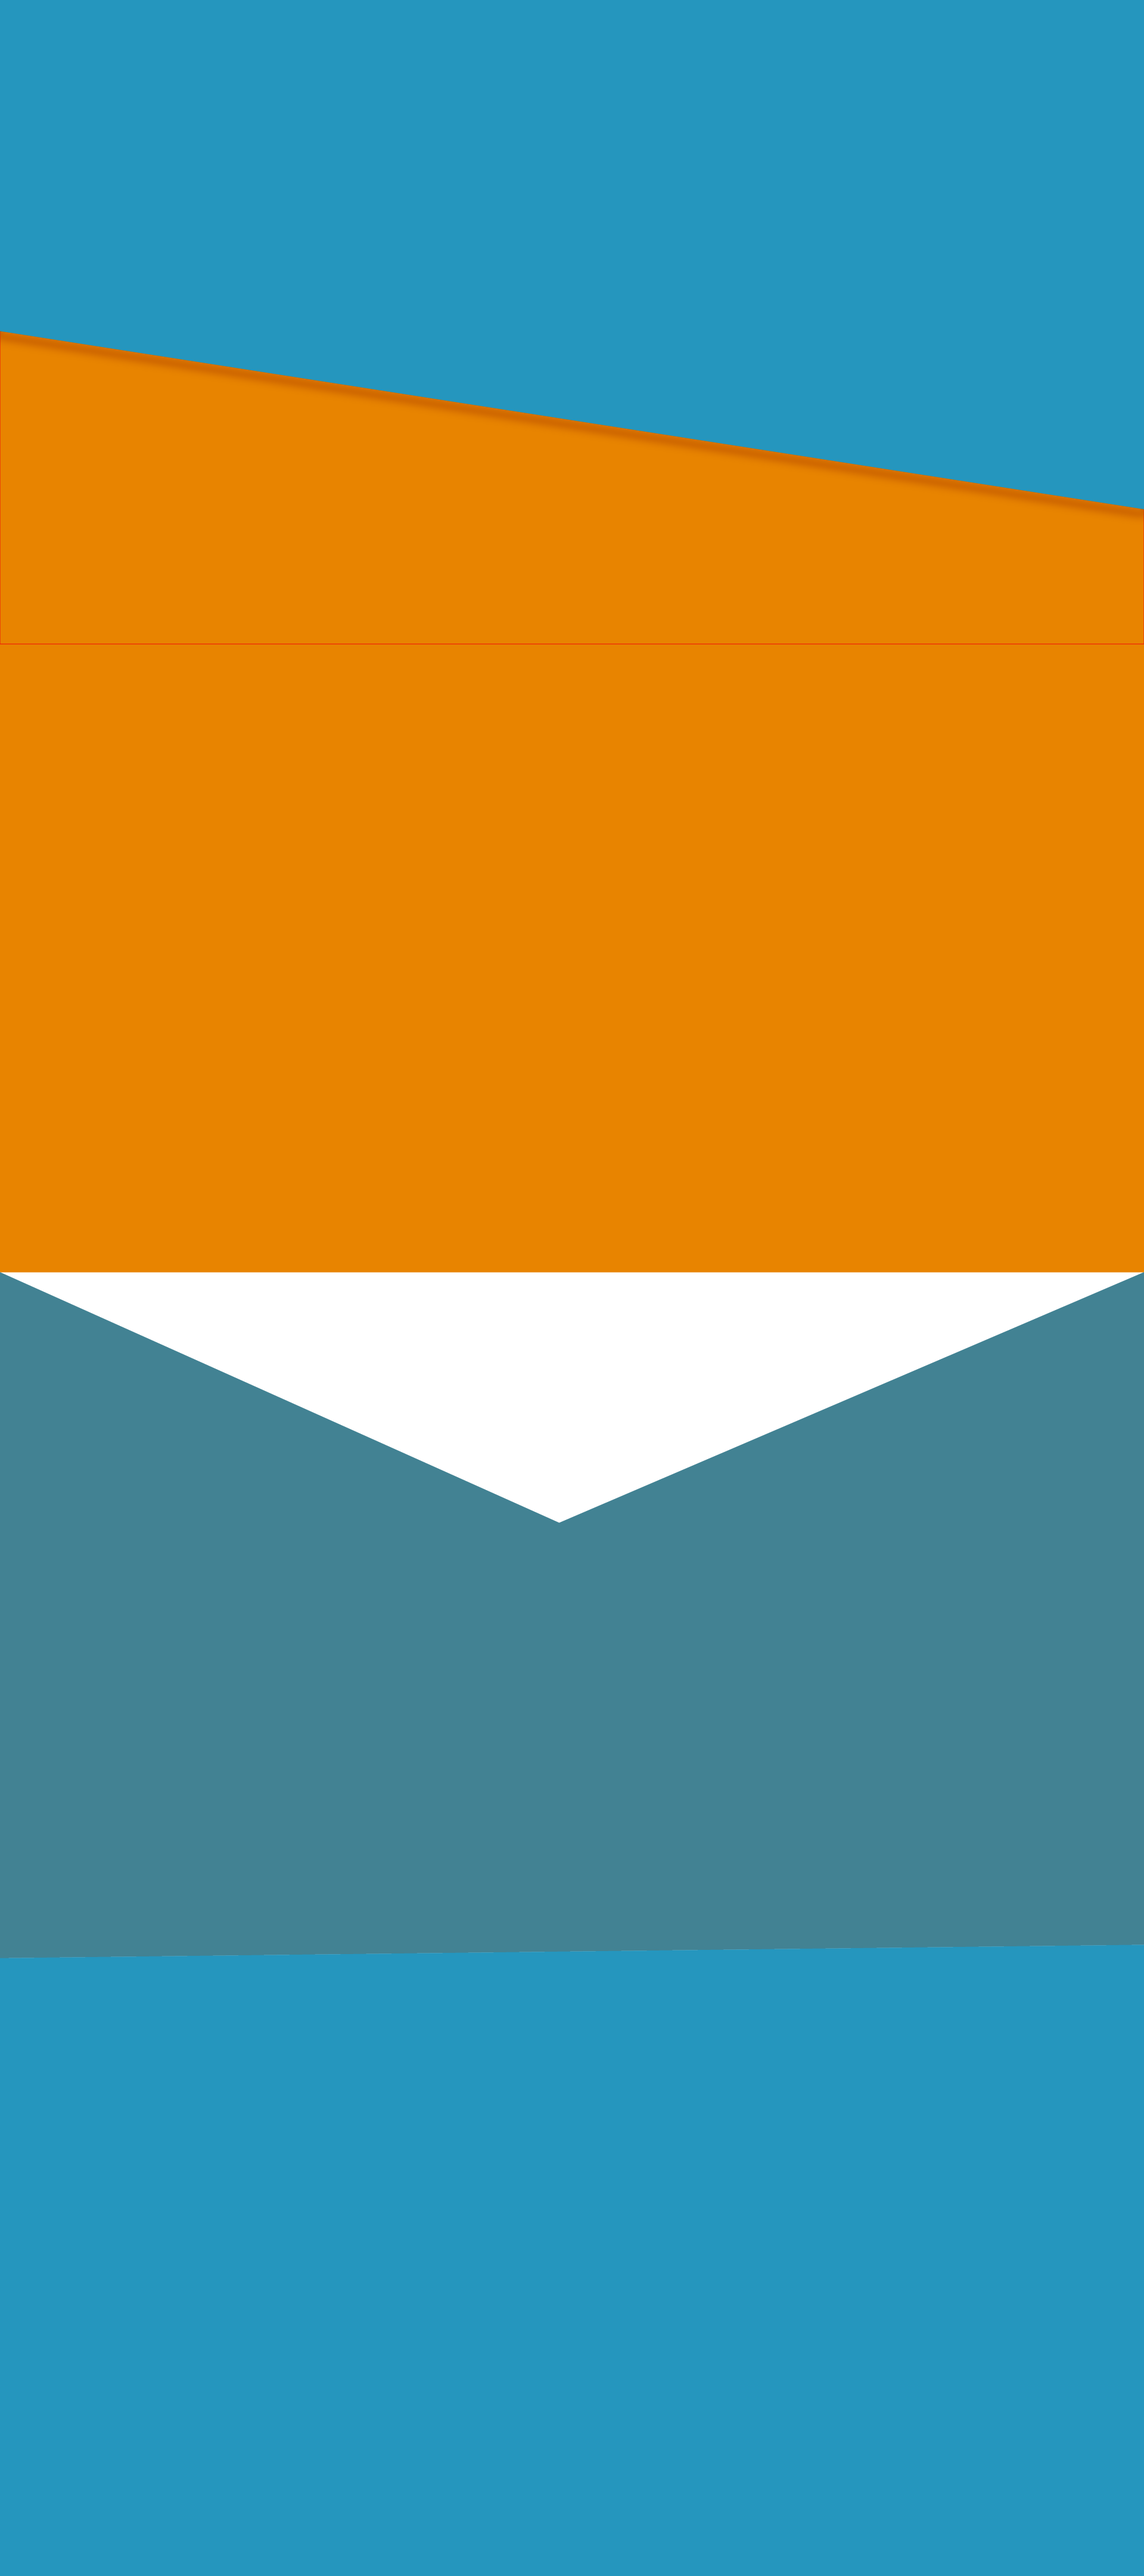
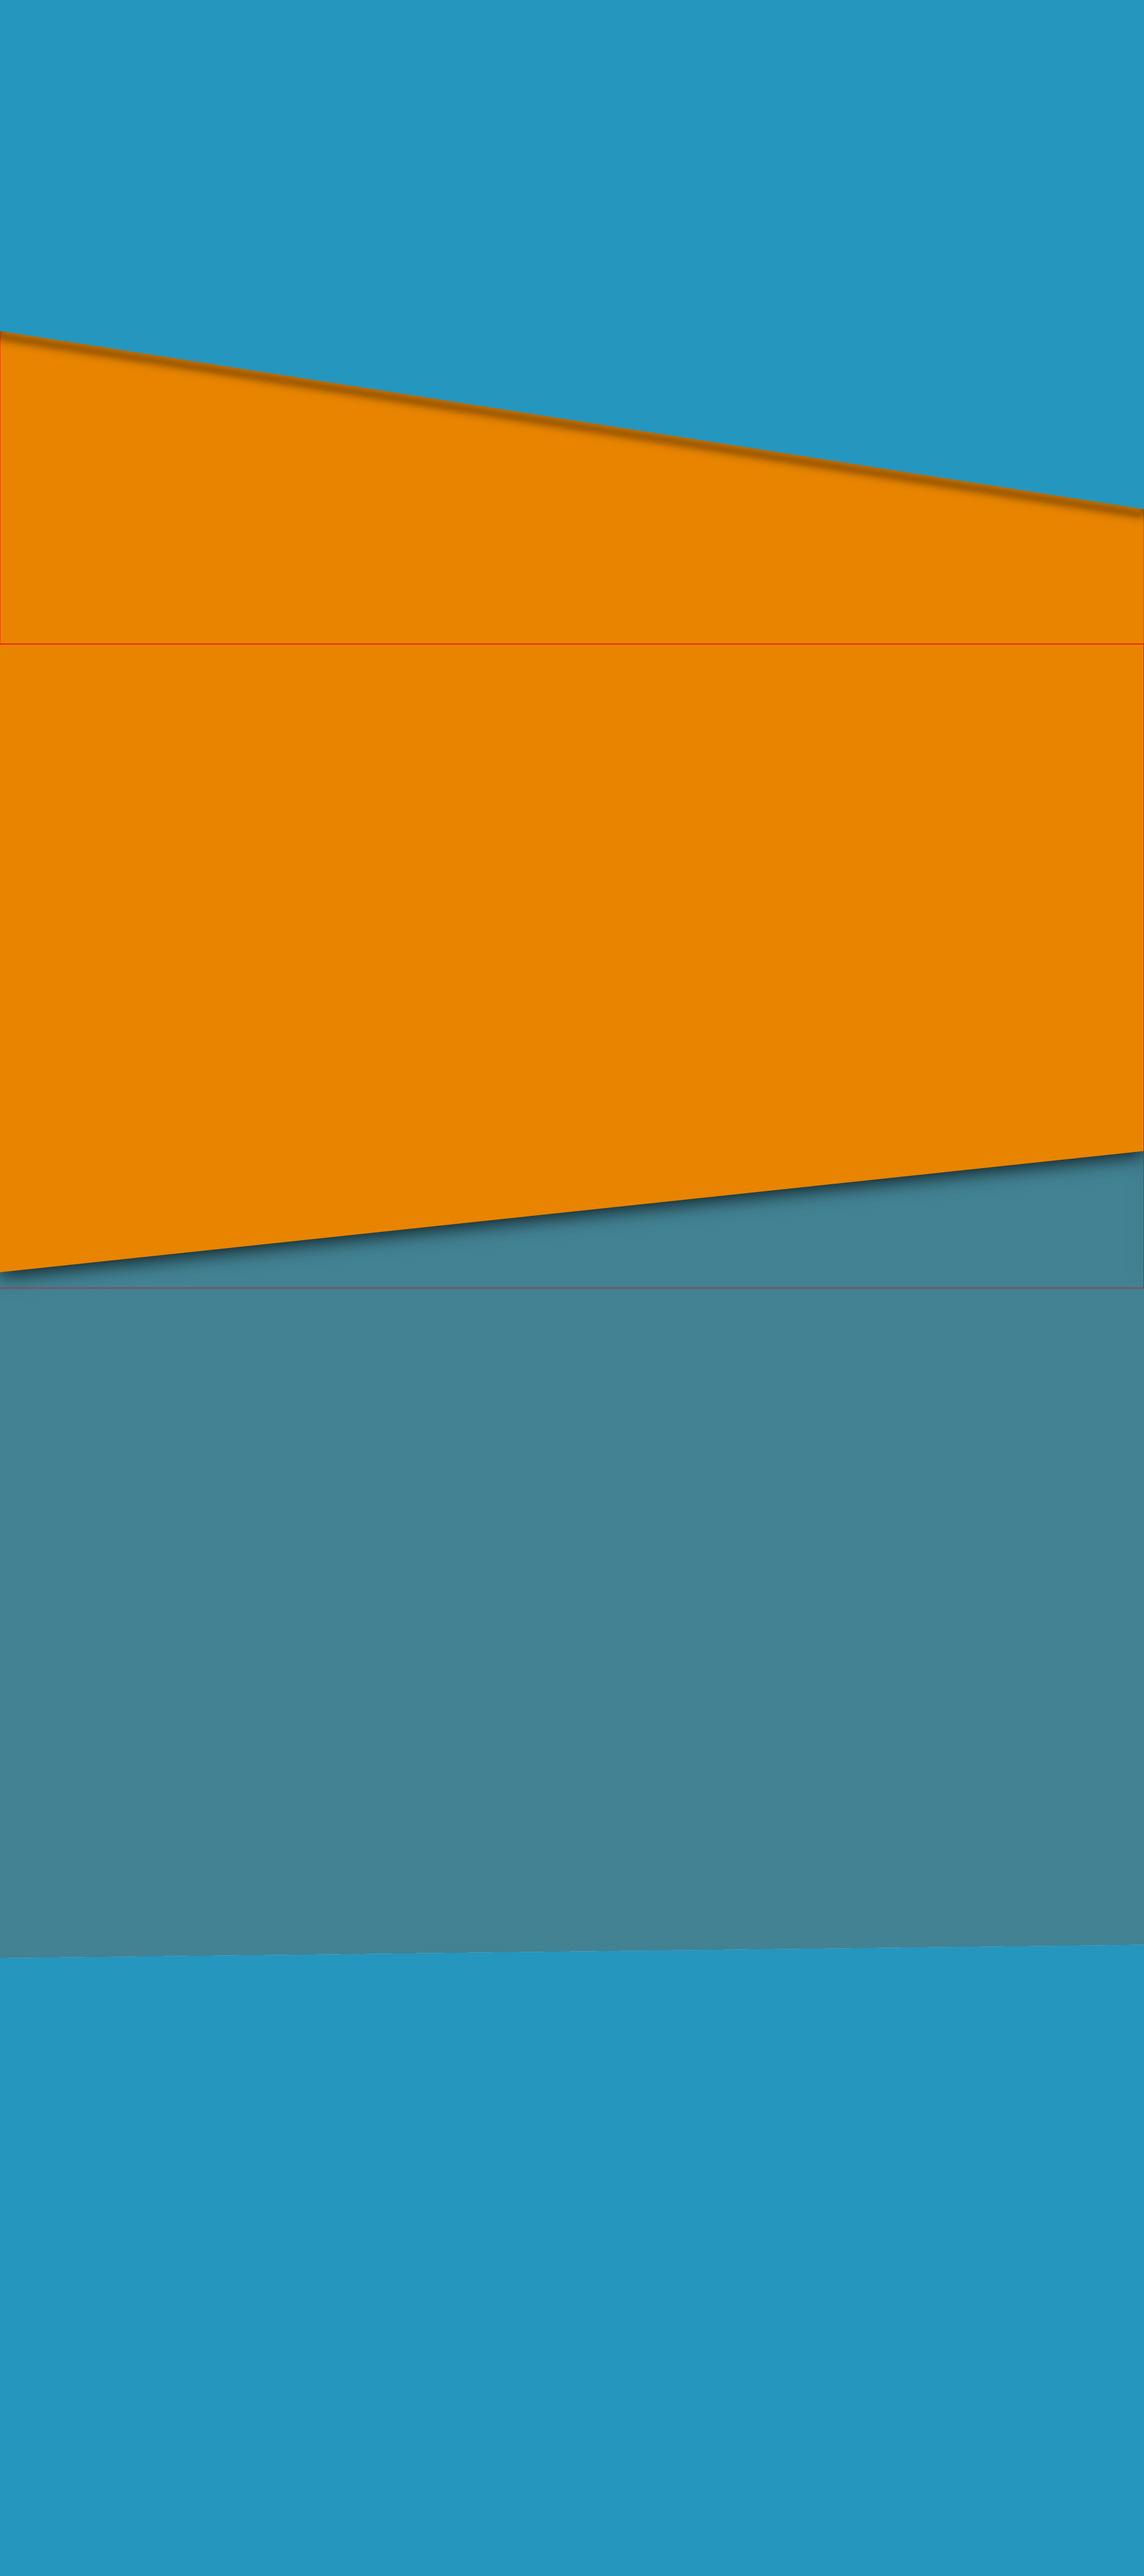
about-me section v1 klar, uppdaterad backgrund

diff --git a/index.html b/index.html
@@ -5,9 +5,6 @@
     <meta http-equiv="X-UA-Compatible" content="IE=edge">
     <meta name="viewport" content="width=device-width, initial-scale=1.0">
     <link rel="stylesheet" href="style.css">
-    <link rel="preconnect" href="https://fonts.googleapis.com">
-    <link rel="preconnect" href="https://fonts.gstatic.com" crossorigin>
-    <link href="https://fonts.googleapis.com/css2?family=Outfit:wght@200&family=Red+Hat+Display:wght@700&display=swap" rel="stylesheet">
     <title>Portfolio</title>
 
 </head>
@@ -32,16 +29,26 @@
                     <h1 id="name"><span id="hi">Hi</span> I'm Samuel!</h1>
                     <h2 id="intro-desc">I'm a Graphic Designer  <br>turned <span id="developer-span">Developer</span></h2>
                 </div>
-                <!-- <img src="/img/URZ09625.jpg" alt="" id="profile-img"> -->
+               
             </div>
      </section>
      <div id="aboutme-title-container">
-        <h1 id="aboutme-title">ABOUT ME</h1>
+        <h1 id="aboutme-title">ABOUT <span id="me-span">ME</span></h1>
      </div>
      <section id="aboutme-page">
-     
-        <p id="aboutme-desc">Jag har goda kunskaper inom HTML, CSS, Adobe XD, Illustrator, Photoshop och Indesign. Jag går just nu en boot-camp på Techover Academy och har tidigare studerat grafisk design på Berghs School of Communication. Boot-campen är praktiskt inriktad och uppdateras ständigt efter vad som används inom front-end developing. Mina kunskaper inom grafisk design har gett mig ett öga för färgkunskap, layout och typografi. Jag har fått praktisk erfarenhet genom att jobba som web-utvecklare för catering-firman Cicada Catering.</p>
-     </section>       
+        <div id="aboutme-content-container">
+            <div id="aboutme-text">
+                <h1 id="aboutme-headline">
+                   Ambitös Front-end Developer
+                </h1>
+                <p id="aboutme-desc">Jag har goda kunskaper inom HTML, CSS, Adobe XD, Illustrator, Photoshop och Indesign. Jag går just nu en boot-camp på Techover Academy och har tidigare studerat grafisk design på Berghs School of Communication. Boot-campen är praktiskt inriktad och uppdateras ständigt efter vad som används inom front-end developing. Mina kunskaper inom grafisk design har gett mig ett öga för färgkunskap, layout och typografi. Jag har fått praktisk erfarenhet genom att jobba som web-utvecklare för catering-firman Cicada Catering.</p>
+            </div>
+            <img src="/img/URZ09625.jpg" alt="" id="profile-img">
+        </div>
+    </section>       
+    <div id="skills-title-container">
+        <h1 id="skills-title">My skills and tools</h1>
+    </div>
     </div>
     <script src="/script.js" defer></script>
 </body>

diff --git a/style.css b/style.css
@@ -1,4 +1,5 @@
 /* global */
+@import url('https://fonts.googleapis.com/css2?family=Poppins:wght@100;200;500&family=Red+Hat+Display:ital,wght@0,300;0,400;1,300&display=swap');
 *{
     padding:0;
     margin: 0;
@@ -11,7 +12,15 @@
     background-size: cover;
     width: 100vw;
     height: 400vh;
+    scroll-behavior: smooth;
+    scroll-snap-type: y mandatory;
+    overflow-x: hidden;
+    overflow-y: scroll;
 }
+section{
+    scroll-snap-align: start;
+}
+
 /* nav */
 nav{
     display: flex;
@@ -62,31 +71,16 @@ nav img{
     justify-content: center;
     padding-right: 50px;
 }
-#profile-img{
-    width: 400px;
-}
+
 #developer-span{
     color: #E88400;
-}
-/* about me page */
-#aboutme-page{
-    height: 100vh;
-}
-#aboutme-title-container{
-    height: 40vh;
-    padding-left: 200px;
-    display: flex;
-    align-items: center;
-}
-#aboutme-title{
-    font-family: "Red Hat Display";
-    font-size: 100px;
 }
 @media screen and (max-width:480px) {
     #intro-content-container{
         flex-direction: column;
     }
     .wrapper{
+        background-image: none;
         background-color: #2596be;
     }
     #first-page{
@@ -98,4 +92,54 @@ nav img{
     #first-page h2{
         font-size: 30px;
     }
+}
+/* about me page */
+#aboutme-page{
+    height: 80vh;
+    width: 100vw;
+    display: flex;
+    justify-content: center;
+    align-items: flex-start;
+}
+#aboutme-title-container{
+    height: 40vh;
+    padding-left: 200px;
+    display: flex;
+    align-items: flex-end;
+}
+#aboutme-content-container{
+    padding-top: 100px;
+    height: 600px;
+    display: flex;
+}
+#aboutme-title{
+    font-family: "Red Hat Display";
+    font-size: 100px;
+    color: white;
+    padding-bottom: 30px;
+}
+#me-span{
+    color: #2596be;
+}
+#profile-img{
+}
+#aboutme-headline{
+    color: #2596be;
+    font-size: 80px;
+}
+#aboutme-text{
+    max-width:800px ;
+    padding-right: 30px;
+    font-family: 'Poppins', sans-serif;
+    font: 500;
+}
+#aboutme-desc{
+    font-size: 30px;
+   max-width: 100%;
+    color: white;
+}
+@media screen and (max-width:480px) {
+     #aboutme-content-container{
+        flex-direction: column;
+     }
 }
